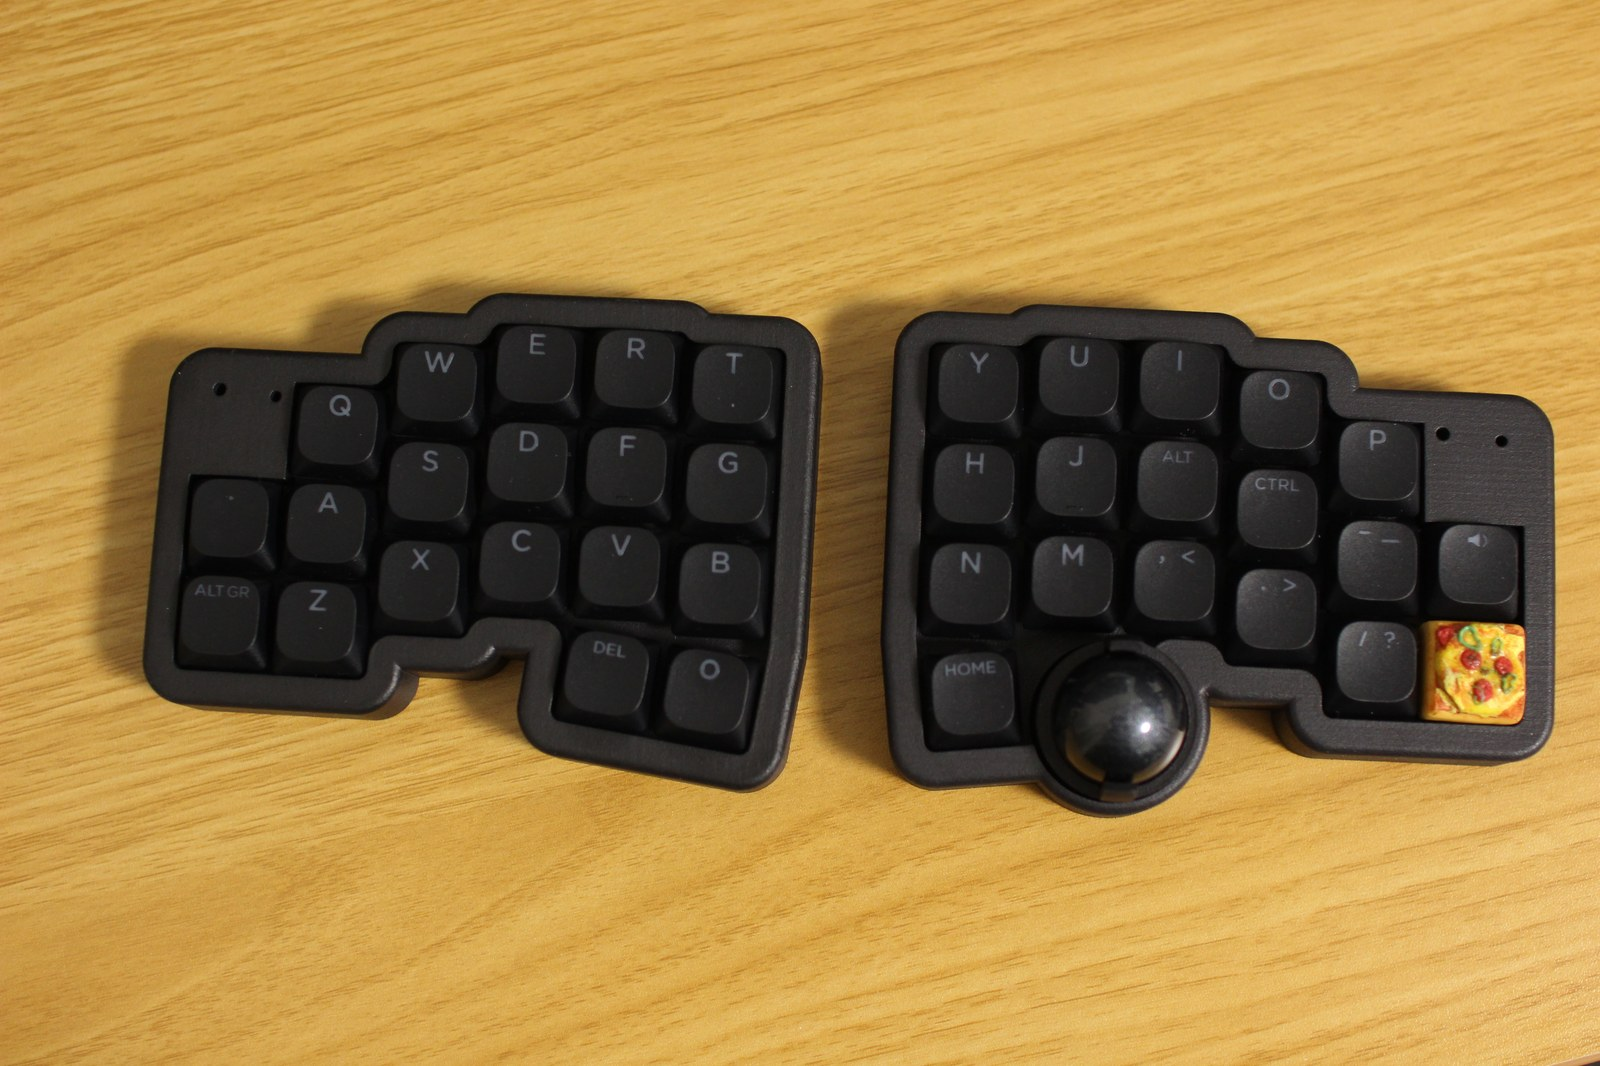
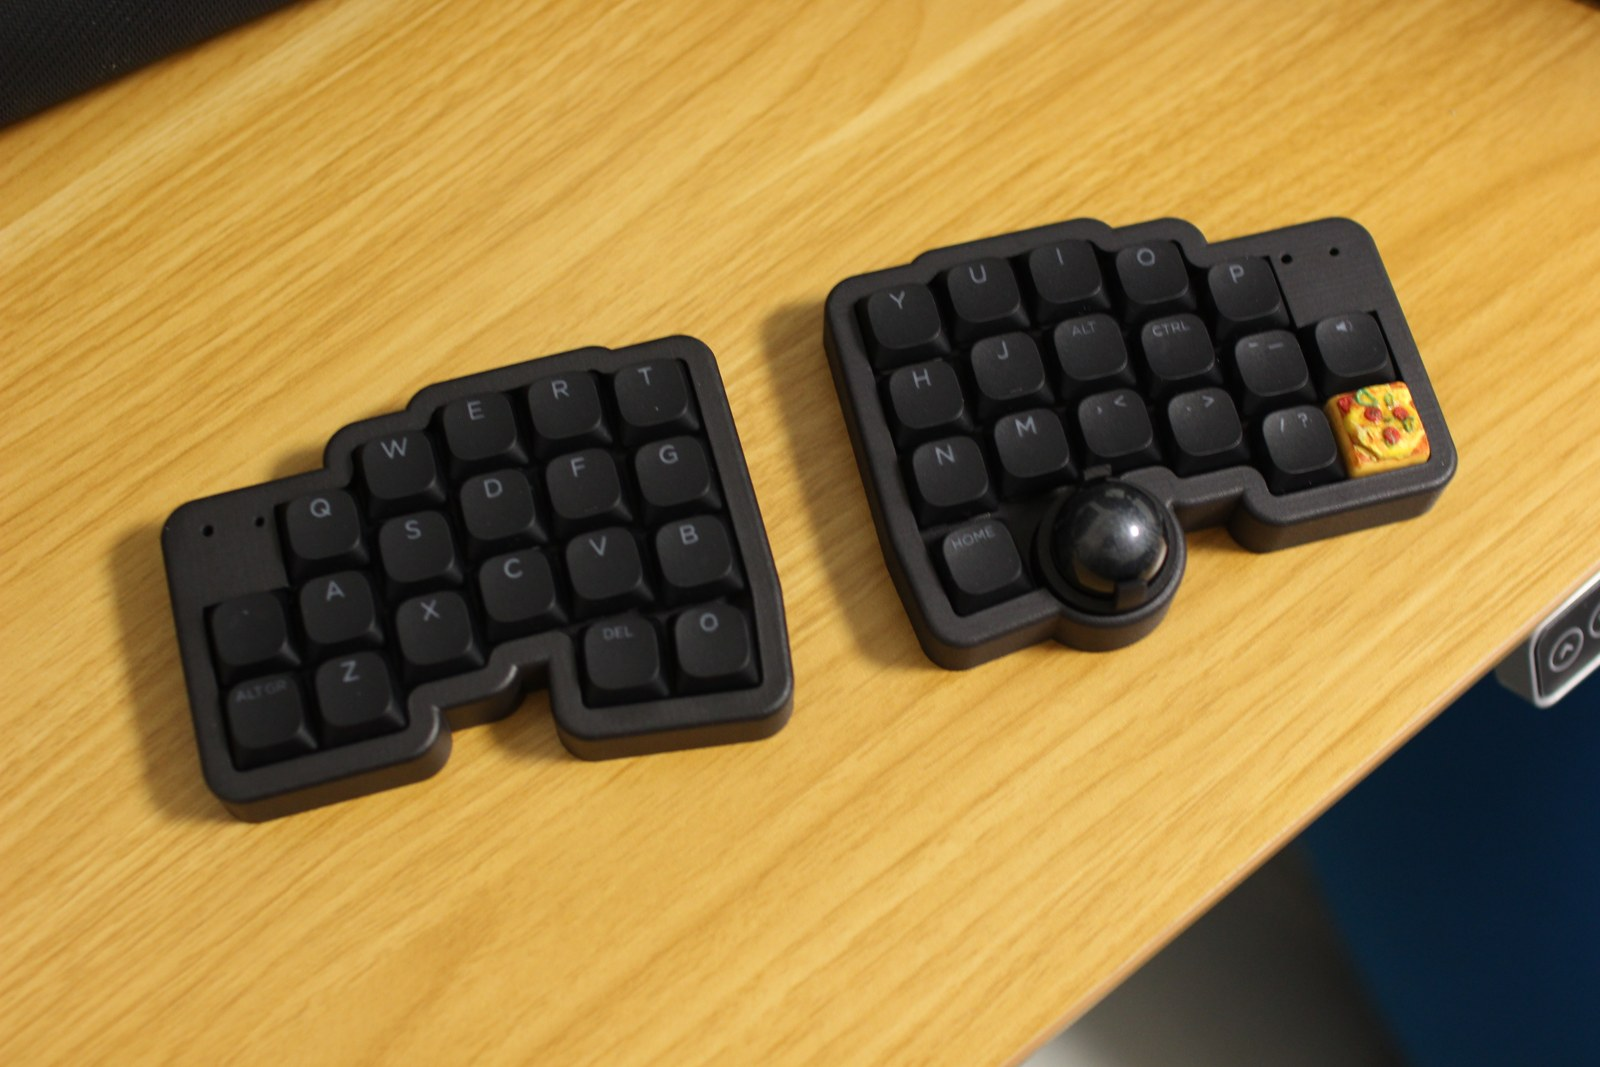
写真差し替えとフッター・スペック表の調整（2026-11-24 未明）

diff --git a/index.html b/index.html
@@ -85,6 +85,7 @@
       a { color: inherit; }
       .mono { font-family: "IBM Plex Mono", monospace; }
       .wrap { max-width: 1180px; margin: 0 auto; padding: 0 clamp(18px, 4.5vw, 48px); }
+      .note { font-size: 14px; color: var(--ink-soft) }
 
       /* ---------- hero ---------- */
       .hero {
@@ -492,7 +493,7 @@
       <div class="hero-scroll" id="hero-scroll">
         <div class="hero-slide" data-variant="white"><img src="assets/white-hero.jpg" alt="木の机の上に置かれた白い lea の左右本体。右手側に銀色のトラックボール" /></div>
         <div class="hero-slide" data-variant="black"><img src="assets/hero.jpg" alt="デスクマットの上に置かれた黒い lea の左右本体" fetchpriority="high" /></div>
-        <div class="hero-slide" data-variant="clear"><img src="assets/clear.jpg" alt="半透明の lea の左手側ユニットを真上から見た写真。中が透けて見える" /></div>
+        <div class="hero-slide" data-variant="clear"><img src="assets/mix.jpg" alt="半透明（左）と白（右）の lea の左右本体を真上から見た写真" /></div>
       </div>
 
       <div class="hero-pager">
@@ -545,7 +546,7 @@
         <div class="split-text">
           <p class="body">lea は特殊な 6x3 レイアウトを採用しています。</p>
           <p class="body">いま主流の分割キーボードでは、キーボードの頭脳 (マイコン) を人差し指側を1列増やして配置するのが一般的です。</p>
-          <p class="body">一方 lea は、小指側の一番手が届きにくい箇所に配置しています。これにより、大きさは5列の分割キーボードと同じで、6列の使い勝手を両立しています。</p>
+          <p class="body">一方 lea は、小指側の一番手が届きにくい箇所に配置しています。これにより、大きさは5列の分割キーボードのまま、6列の使い勝手を両立しています。</p>
         </div>
         <figure>
           <img class="photo" src="assets/layout-black.jpg" data-w="assets/layout-white.jpg" data-b="assets/layout-black.jpg" data-c="assets/mix.jpg" alt="lea の左右本体。右手側に銀色のトラックボール" loading="lazy" />
@@ -622,10 +623,13 @@
         <div class="sec-head">
           <h2 id="h-variations">バリエーション</h2>
         </div>
+        <p class="body">
+          写真は設計段階のものも含んでいます。製造時期によっては写真と少し異なるものが届く可能性があることをご承知ください。
+        </p>
         <div class="vroll" id="vroll" aria-label="カラーの写真">
-          <div class="vroll-slide"><img src="assets/white.jpg" alt="白い lea の左右本体を真上から見た写真" loading="lazy" /><span class="vroll-tag">白 ¥31,800</span></div>
-          <div class="vroll-slide"><img src="assets/black.jpg" alt="木の机の上に置かれた黒い lea の左右本体を真上から見た写真" loading="lazy" /><span class="vroll-tag">黒 ¥39,800</span></div>
-          <div class="vroll-slide"><img src="assets/clear.jpg" alt="半透明の lea の左手側ユニットを真上から見た写真。中が透けて見える" loading="lazy" /><span class="vroll-tag">半透明 ¥39,800</span></div>
+          <div class="vroll-slide"><img src="assets/white-hero.jpg" alt="白い lea の左右本体を真上から見た写真" loading="lazy" /><span class="vroll-tag">白 ¥31,800</span></div>
+          <div class="vroll-slide"><img src="assets/hero.jpg" alt="木の机の上に置かれた黒い lea の左右本体を真上から見た写真" loading="lazy" /><span class="vroll-tag">黒 ¥39,800</span></div>
+          <div class="vroll-slide"><img src="assets/mix.jpg" alt="半透明（左）と白（右）の lea の左右本体を真上から見た写真" loading="lazy" /><span class="vroll-tag">半透明 (Coming Soon) ¥39,800</span></div>
         </div>
         <div class="vroll-pager" id="vroll-pager" role="tablist" aria-label="カラー写真の切り替え">
           <button type="button" role="tab" aria-selected="true" aria-label="白の写真"></button>
@@ -641,18 +645,18 @@
         </div>
         <div class="box-table">
           <table class="dim-table">
-            <tr><th>レイアウト</th><td>30%、6列×3行、37キー</td></tr>
-            <tr><th>サイズ</th><td>127.9 × 94.0 (ボール部+3.7) mm</td></tr>
-            <tr><th>高さ</th><td>17.4 mm（ボール部 30.7 mm）</td></tr>
-            <tr><th>ファームウェア</th><td>ZMK Firmware</td></tr>
+            <tr><th>レイアウト</th><td>30%、特殊6列×3行、37キー</td></tr>
+            <tr><th>キーピッチ</th><td>19.05 mm（通常ピッチ）</td></tr>
             <tr><th>キースイッチ</th><td>Kailh Choc V2、ホットスワップ<br/>※キーキャップ・スイッチは別売り</td></tr>
+            <tr><th>サイズ (mm)</th><td>W127.9 × D94.0 (ボール部+3.7) × H17.4（ボール部 30.7）</td></tr>
             <tr><th>接続</th><td>無線 (Bluetooth LE) または有線 (USB-C)</td></tr>
             <tr><th>バッテリー</th><td>110 mAh / USB-C 充電</td></tr>
+            <tr><th>動作時間</th><td>セントラル：1〜2週間<br/>ペリフェラル：1ヶ月<br/><span class="note">※作者環境でのテスト値であり、この長さの動作は保証はしません。目安とお考えください</span></td></tr>
             <tr><th>カラー</th><td>
               <ul class="color-list">
                 <li>白：レジン</li>
                 <li>黒：ナイロン</li>
-                <li>半透明：レジン (Comming Soon)</li>
+                <li>半透明：レジン (Coming Soon)</li>
               </ul>
             </td></tr>
           </table>
@@ -664,14 +668,29 @@
           <h2 id="h-faq">FAQ</h2>
         </div>
         <div class="faq-item">
+          <input type="checkbox" id="faq-assembled" class="faq-toggle" />
+          <label class="faq-q" for="faq-assembled">組み立て済みですか？</label>
+          <div class="faq-a"><div><p>はい、組み立て済みです。ただし、キースイッチ・キーキャップ・25mm のトラックボールはご自身で用意が必要です。</p></div></div>
+        </div>
+        <div class="faq-item">
           <input type="checkbox" id="faq-1" class="faq-toggle" />
           <label class="faq-q" for="faq-1">キースイッチとキーキャップは付属しますか？</label>
-          <div class="faq-a"><div><p>付属しません。Kailh Choc V2 対応のキースイッチと、Choc V2 用のロープロファイルキーキャップを別途ご用意ください。</p></div></div>
+          <div class="faq-a"><div><p>いいえ、付属しません。Kailh Choc V2 対応のキースイッチと、Choc V2 用のロープロファイルキーキャップを別途ご用意ください。</p></div></div>
+        </div>
+        <div class="faq-item">
+          <input type="checkbox" id="faq-choc-v1" class="faq-toggle" />
+          <label class="faq-q" for="faq-choc-v1">Choc V1 対応ですか？</label>
+          <div class="faq-a"><div><p>Choc V1 のスイッチが使えるかどうかは未確認です。確認された方いれば教えてください。</p></div></div>
+        </div>
+        <div class="faq-item">
+          <input type="checkbox" id="faq-price-color" class="faq-toggle" />
+          <label class="faq-q" for="faq-price-color">色によって価格が違うのはなぜですか？</label>
+          <div class="faq-a"><div><p>ケースの原価差によるものです。</p></div></div>
         </div>
         <div class="faq-item">
           <input type="checkbox" id="faq-2" class="faq-toggle" />
           <label class="faq-q" for="faq-2">スイッチの交換にはんだ付けは必要ですか？</label>
-          <div class="faq-a"><div><p>必要ありません。ソケット式（ホットスワップ）なので、そのまま抜き差しできます。</p></div></div>
+          <div class="faq-a"><div><p>いいえ、必要ありません。ソケット式（ホットスワップ）なので、そのまま抜き差しできます。</p></div></div>
         </div>
         <div class="faq-item">
           <input type="checkbox" id="faq-3" class="faq-toggle" />
@@ -681,17 +700,17 @@
         <div class="faq-item">
           <input type="checkbox" id="faq-4" class="faq-toggle" />
           <label class="faq-q" for="faq-4">キーマップは変更できますか？</label>
-          <div class="faq-a"><div><p>できます。ファームウェアは ZMK で、キーの割り当てやレイヤーを自分で書き換えられます。</p></div></div>
+          <div class="faq-a"><div><p>はい、できます。ファームウェアは ZMK で、キーの割り当てやレイヤーを自分で書き換えられます。</p></div></div>
         </div>
         <div class="faq-item">
           <input type="checkbox" id="faq-5" class="faq-toggle" />
           <label class="faq-q" for="faq-5">注文してからどのくらいで届きますか？</label>
-          <div class="faq-a"><div><p>注文から 3〜4日で発送します。送料は ¥740 です。</p></div></div>
+          <div class="faq-a"><div><p>在庫があれば、注文から3〜4日で発送予定です。</p></div></div>
         </div>
         <div class="faq-item">
           <input type="checkbox" id="faq-6" class="faq-toggle" />
           <label class="faq-q" for="faq-6">初期不良があったらどうなりますか？</label>
-          <div class="faq-a"><div><p>到着後7日以内にご連絡いただければ、無償で修理します。</p></div></div>
+          <div class="faq-a"><div><p>到着後7日以内にご連絡いただき、こちらの製造過程に不備があることが確認できれば、無償で対応します。</p></div></div>
         </div>
       </section>
     </main>
@@ -744,7 +763,7 @@
             status: "再販準備中（在庫なし）"
           },
           clear: {
-            short: "半透明",
+            short: "半透明 (COMING SOON)",
             texImg: "assets/clear.jpg",
             texAlt: "半透明の lea の左手側ユニット。中が透けて見える",
             texCap: "半透明（レジン製）。中が透けて見えます",
